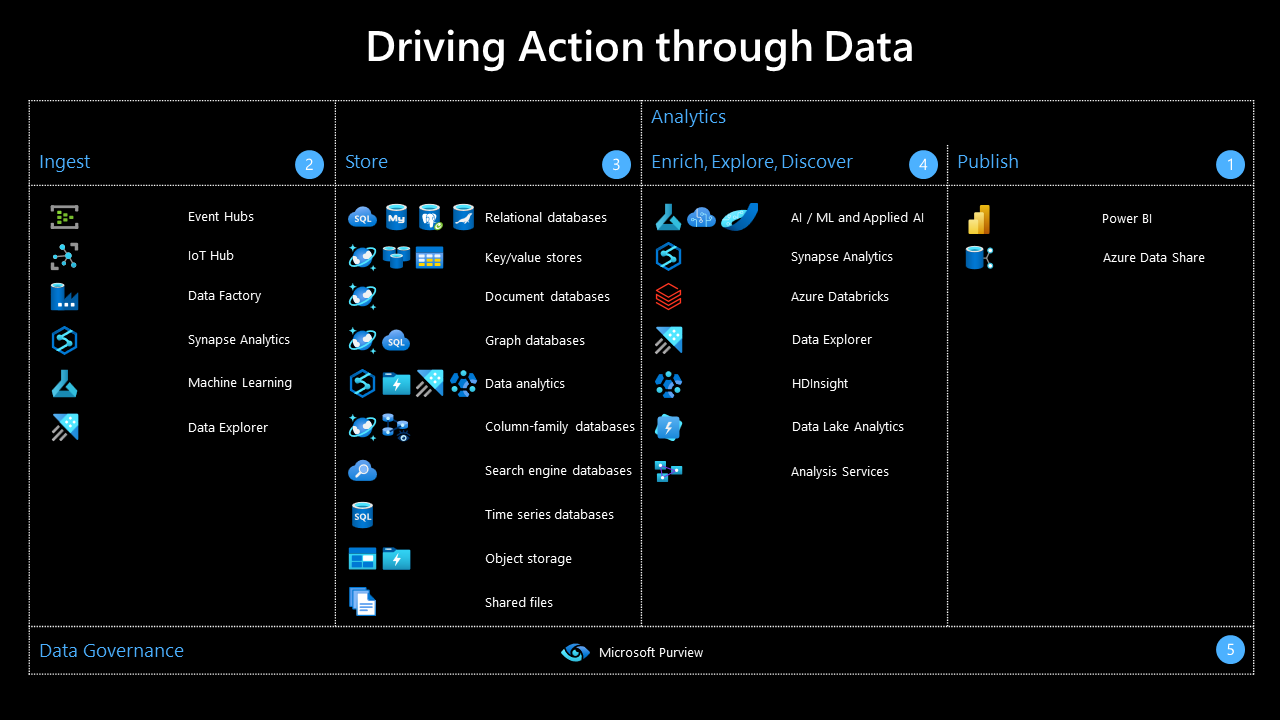
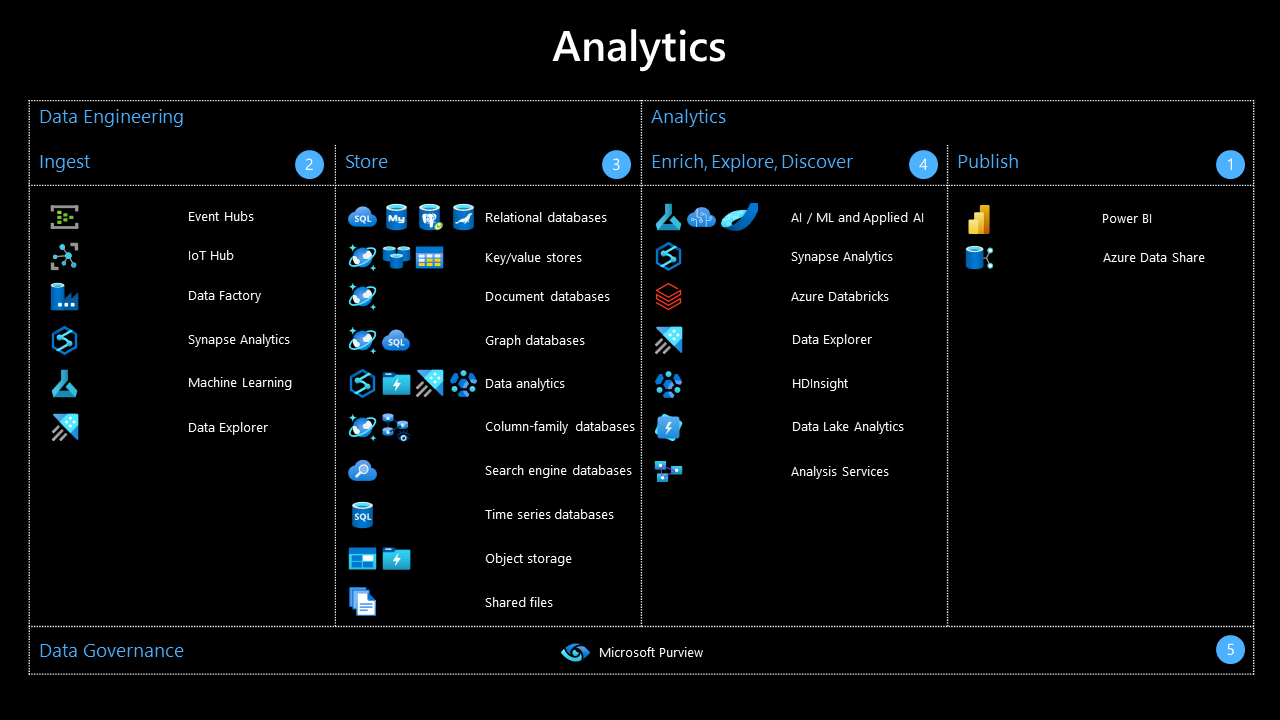
new graphics

Changed region(s): [[0.2812, 0.0306, 0.7188, 0.0917], [0.0312, 0.1528, 0.1562, 0.1833]]

diff --git a/ingest.md b/ingest.md
@@ -1,0 +1,30 @@
+---
+layout: art-splash
+permalink: /ingest/
+title: "Ingest"
+classes: 
+   - wide
+---
+As toolsets improve, the traditional analytics workflow of Ingest, Store, Enrich and Publish has blurred.  Below are links to how Microsoft thinks about Data Ingestion and some articles for handling ingestion when using a specific platform or service.
+
+* [Choose a real-time message ingestion technology in Azure](https://docs.microsoft.com/en-us/azure/architecture/data-guide/technology-choices/real-time-ingestion)
+
+* [High throughput stream ingestion to Azure Synapse](https://docs.microsoft.com/en-us/azure/architecture/example-scenario/data/stream-ingestion-synapse)
+
+* [Ingestion, ETL, and stream processing pipelines with Azure Databricks](https://docs.microsoft.com/en-us/azure/architecture/solution-ideas/articles/ingest-etl-stream-with-adb)
+
+* [The ingest process with cloud-scale analytics in Azure](https://docs.microsoft.com/en-us/azure/cloud-adoption-framework/scenarios/cloud-scale-analytics/best-practices/data-ingestion)
+ 
+* [Data agnostic ingestion engine](https://docs.microsoft.com/en-us/azure/cloud-adoption-framework/scenarios/cloud-scale-analytics/best-practices/automated-ingestion-pattern)
+
+* [Data ingestion options for Azure Machine Learning workflows](https://docs.microsoft.com/en-us/azure/machine-learning/concept-data-ingestion)
+ 
+* [Load data into Azure Data Lake Storage Gen2 with Azure Data Factory](https://docs.microsoft.com/en-us/azure/data-factory/load-azure-data-lake-storage-gen2)
+ 
+* [Pipelines and activities in Azure Data Factory and Azure Synapse Analytics](https://docs.microsoft.com/en-us/azure/data-factory/concepts-pipelines-activities?context=%2Fazure%2Fsynapse-analytics%2Fcontext%2Fcontext&tabs=synapse-analytics)
+ 
+* [Ingesting data into Azure Synapse Analytics using PolyBase](https://www.sqlshack.com/ingesting-data-into-azure-synapse-analytics-using-polybase/)
+
+* [Azure Synapse Data Explorer data ingestion overview (Preview)](https://docs.microsoft.com/en-us/azure/synapse-analytics/data-explorer/ingest-data/data-explorer-ingest-data-overview)
+ 
+* [Azure Data Explorer data ingestion overview](https://docs.microsoft.com/en-us/azure/data-explorer/ingest-data-overview)

diff --git a/analytics-simplified.md b/analytics-simplified.md
@@ -1,0 +1,22 @@
+---
+layout: art-splash
+title: 
+classes: wide
+permalink: /analytics-simplified/
+date: 2022-07-27 07:34:10
+---
+<div class="google-maps">
+   <!-- Image Map Generated by http://www.image-map.net/ -->
+   <img  src="../assets/img/analytics-simplified.png" usemap="#image-map">
+
+   <map name="image-map">
+      <area target="" alt="Ingest" title="Ingest" href="../ingest" coords="310,165,15" shape="circle">
+      <area target="" alt="Store" title="Store" href="../store" coords="616,165,15" shape="circle">
+      <area target="" alt="Enrich" title="Enrich" href="../enrich-explore-discover" coords="924,165,15" shape="circle">
+      <area target="" alt="Publish" title="Publish" href="../publish" coords="1231,164,14" shape="circle">
+      <area target="_blank" alt="Azure Synapse Analytics" title="Azure Synapse Analytics" href="https://docs.microsoft.com/en-us/azure/synapse-analytics/" coords="42,200,1241,308" shape="rect">
+      <area target="_blank" alt="Power BI" title="Power BI" href="https://docs.microsoft.com/en-us/power-bi/" coords="653,325,1241,444" shape="rect">
+      <area target="_blank" alt="Microsoft Purview" title="Microsoft Purview" href="https://docs.microsoft.com/en-us/azure/purview/" coords="439,491,876,580" shape="rect">
+      <area target="" alt="Data Governance" title="Data Governance" href="../data-governance" coords="1231,537,24" shape="circle">
+   </map>
+</div>

diff --git a/enrich-explore-discover.md b/enrich-explore-discover.md
@@ -1,0 +1,24 @@
+---
+layout: art-splash
+permalink: /enrich-explore-discover/
+title: "Enrich, Explore, Discover"
+classes: 
+   - wide
+---
+### AI/ML Enrichment
+
+* [Choose a Microsoft cognitive services technology](https://docs.microsoft.com/en-us/azure/architecture/data-guide/technology-choices/cognitive-services)
+
+* [Natural language processing technology](https://docs.microsoft.com/en-us/azure/architecture/data-guide/technology-choices/natural-language-processing)
+
+* [Compare the machine learning products and technologies from Microsoft](https://docs.microsoft.com/en-us/azure/architecture/data-guide/technology-choices/data-science-and-machine-learning)
+
+* [Azure Machine Learning decision guide for optimal tool selection](https://docs.microsoft.com/en-us/azure/architecture/example-scenario/mlops/aml-decision-tree)
+
+### Analytics & Processing
+
+* [Choose a data analytics and reporting technology in Azure](https://docs.microsoft.com/en-us/azure/architecture/data-guide/technology-choices/analysis-visualizations-reporting)
+
+* [Choose a batch processing technology in Azure](https://docs.microsoft.com/en-us/azure/architecture/data-guide/technology-choices/batch-processing)
+
+* [Choose a stream processing technology in Azure](https://docs.microsoft.com/en-us/azure/architecture/data-guide/technology-choices/stream-processing)

diff --git a/analytics.md b/analytics.md
@@ -1,17 +1,10 @@
 ---
 layout: art-splash
-title: Analytics
+title: 
 classes: wide
 permalink: /analytics/
 date: 2022-07-27 07:34:10
 ---
-
-Analytics is the process of discovering, interpreting, and ***communicating*** significant patterns in data.
-
-> Your success in life will be determined largely by your ability to speak, your ability to write, and the quality of your ideas, in that order.
->
-> Patrick Winston, MIT pfofessor
-
 <div class="google-maps">
    <!-- Image Map Generated by http://www.image-map.net/ -->
    <img  src="../assets/img/analytics.png" usemap="#image-map">
@@ -74,5 +67,9 @@ Analytics is the process of discovering, interpreting, and ***communicating*** s
       <area target="_blank" alt="Microsoft Purview" title="Microsoft Purview" href="https://docs.microsoft.com/en-us/azure/purview/" coords="550,637,722,667" shape="rect">
    </map>
 </div>
+<br />
+Analytics is the process of discovering, interpreting, and ***communicating*** significant patterns in data.
 
-
+> Your success in life will be determined largely by your ability to speak, your ability to write, and the quality of your ideas, in that order.
+>
+> Patrick Winston, MIT pfofessor

diff --git a/store.md b/store.md
@@ -1,0 +1,16 @@
+---
+layout: art-splash
+permalink: /store/
+title: "Store"
+classes: 
+   - wide
+---
+* [Understand data store models](https://docs.microsoft.com/en-us/azure/architecture/guide/technology-choices/data-store-overview)
+
+* [Select an Azure data store for your application](https://docs.microsoft.com/en-us/azure/architecture/guide/technology-choices/data-store-decision-tree)
+
+* [Criteria for choosing a data store](https://docs.microsoft.com/en-us/azure/architecture/guide/technology-choices/data-store-considerations)
+
+* [Choose a big data storage technology in Azure](https://docs.microsoft.com/en-us/azure/architecture/data-guide/technology-choices/data-storage)
+
+* [Choose an analytical data store in Azure](https://docs.microsoft.com/en-us/azure/architecture/data-guide/technology-choices/analytical-data-stores)

diff --git a/data-governance.md b/data-governance.md
@@ -1,0 +1,10 @@
+---
+layout: splash
+permalink: /data-governance/
+title: "Data Governance"
+classes: 
+   - wide
+---
+# Data Governance
+
+* [What is data governance and why does it matter?](https://www.techtarget.com/searchdatamanagement/definition/data-governance)
